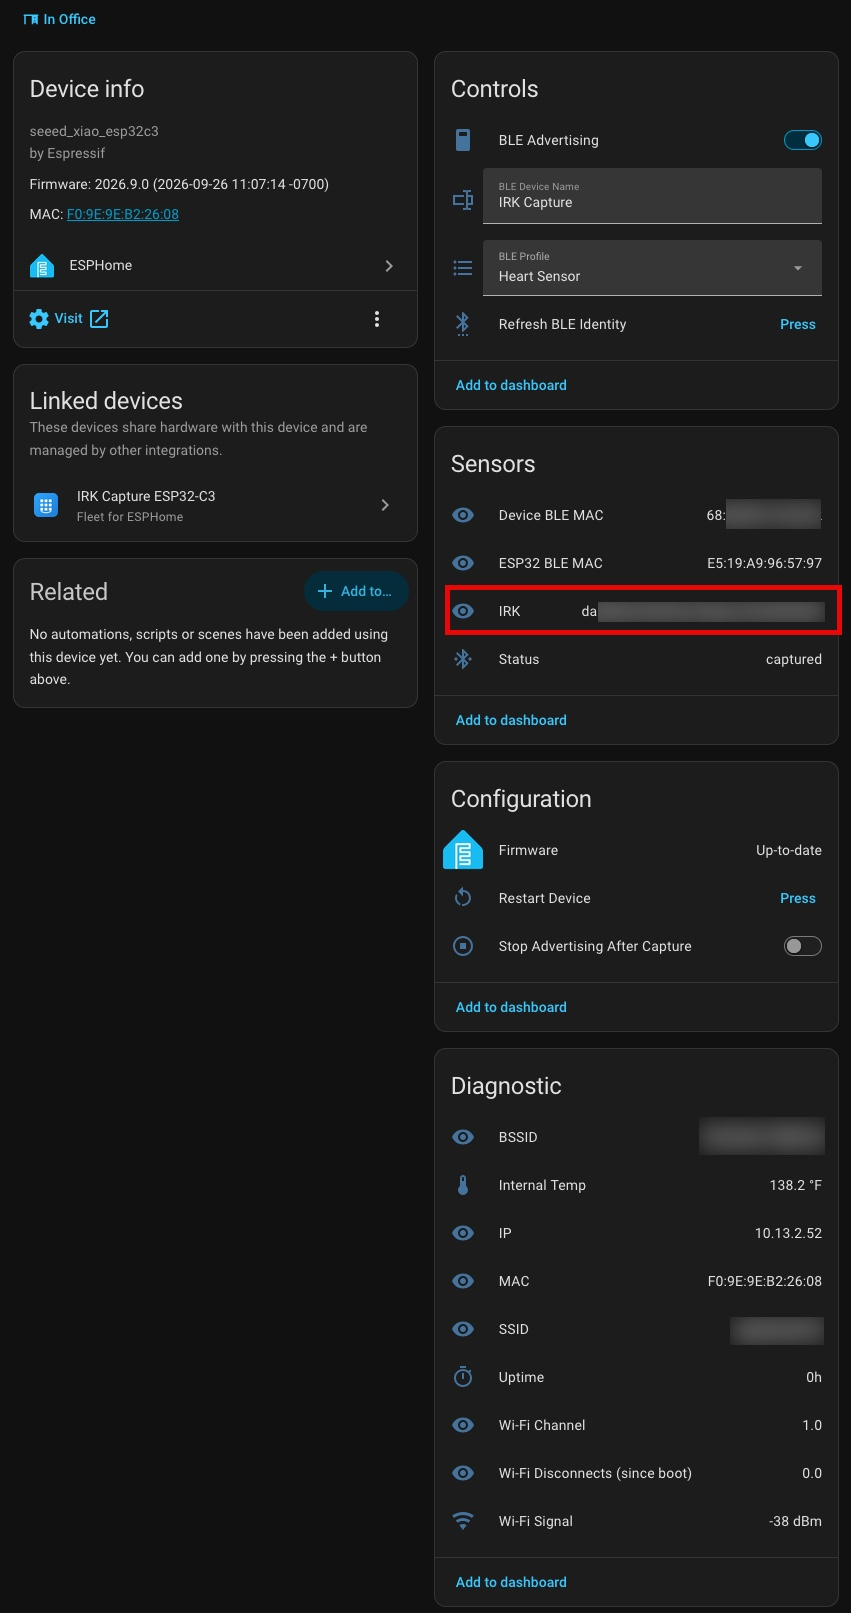
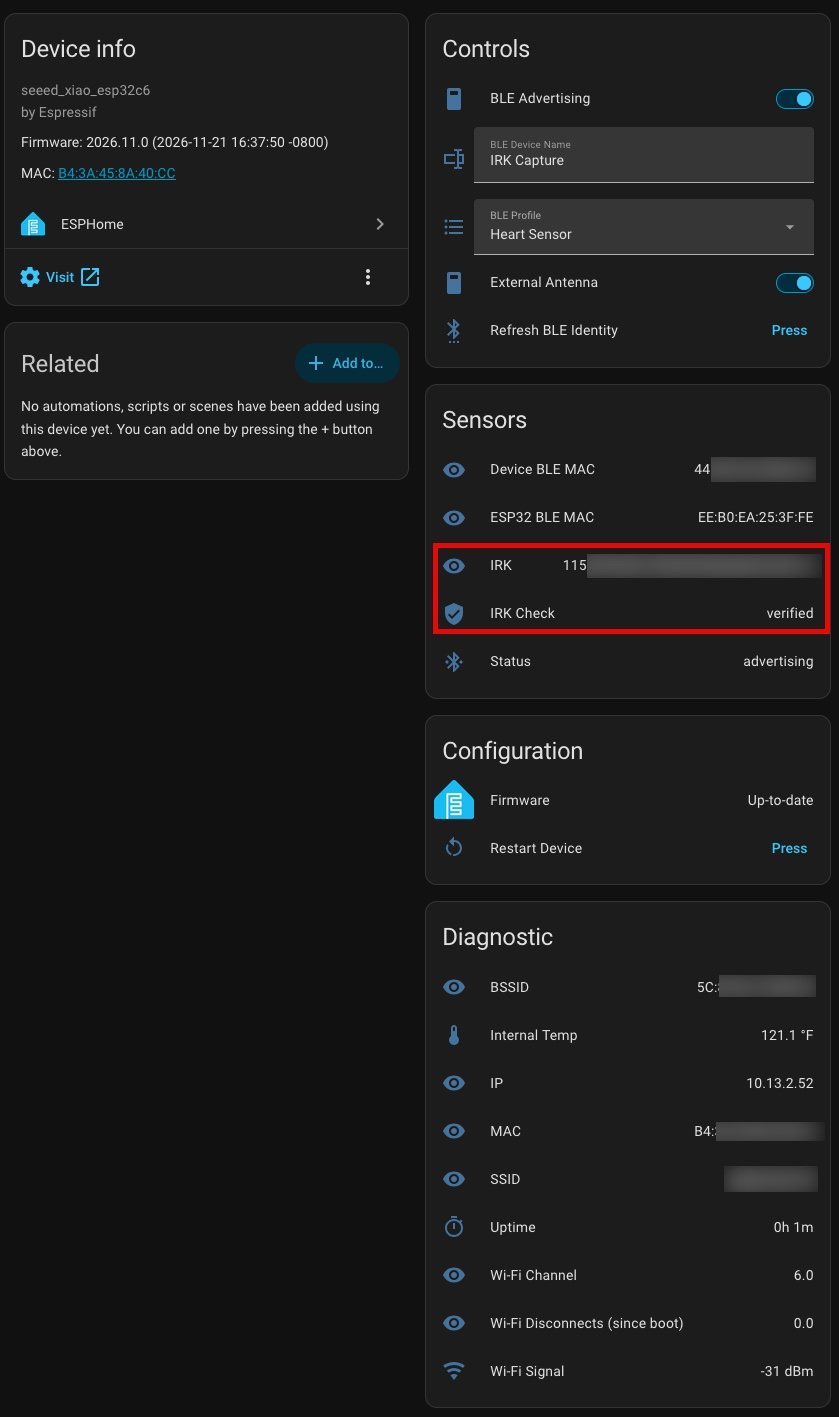
Describe the IRK check in the README and refresh the screenshot
Add the check to the capture steps and the event description, and a
short note on what verified, unverified and mismatch mean. The device
page screenshot now shows the IRK Check sensor.

diff --git a/README.md b/README.md
@@ -6,7 +6,7 @@ This ESPHome package will capture Apple and Android Bluetooth Identity Resolving
 
 You can capture IRKs through two interfaces: the ESP32's ESPHome device page in Home Assistant, or an optional standalone web wizard served by the ESP32. The wizard guides you through the capture process in your browser without needing Home Assistant. See [Optional: The Capture Wizard Package](#optional-the-capture-wizard-package) later in this README for setup instructions.
 
-Each capture also fires an `esphome.irk_captured` event in Home Assistant with the IRK and the device's BLE MAC. You can use it to trigger automations, such as a notification, or to publish new IRKs to MQTT for other systems. See [Optional: Home Assistant Events and MQTT Publishing](#optional-home-assistant-events-and-mqtt-publishing).
+Each capture also fires an `esphome.irk_captured` event in Home Assistant with the IRK, the device's BLE MAC, and the result of the IRK check. You can use it to trigger automations, such as a notification, or to publish new IRKs to MQTT for other systems. See [Optional: Home Assistant Events and MQTT Publishing](#optional-home-assistant-events-and-mqtt-publishing).
 
 This ESPHome IRK capture package is only designed to capture IRKs and can NOT pull double duty as a Bluetooth proxy. You can either flash this to a spare ESP32 device and keep it in a sock drawer when not being used, or temporarily flash this package to an ESP32 then flash back to your generic Bluetooth proxy ESPHome configuration. IRKs are generally permanent and do not change over time.
 
@@ -61,9 +61,12 @@ When your Apple or Android device pairs with the ESP32:
 2. Your device initiates a secure pairing process
 3. During pairing, the device shares its IRK with the ESP32
 4. The IRK is captured and exposed as a Home Assistant text sensor
-5. You can then use this IRK with the Private BLE Device integration for presence tracking
+5. The ESP32 checks the IRK and reports the result in the **IRK Check** sensor
+6. You can then use this IRK with the Private BLE Device integration for presence tracking
 
-![ESPHome IRK Capture Device](docs/screenshot-1.jpg)
+**IRK check.** Phones and watches that use BLE privacy connect from a private address generated from their IRK. After each capture, the ESP32 confirms that the captured IRK generates the address the device connected from. **IRK Check** shows `verified` when it does, which proves the key is correct. `unverified` means the device connected from a fixed address, so there was nothing to check; the key is usually still correct. `mismatch` means you should capture the device again. See [Checking a captured IRK](#checking-a-captured-irk) for details.
+
+![ESPHome IRK Capture device page in Home Assistant, with the IRK and IRK Check sensors highlighted](docs/screenshot-1.jpg)
 
 ## Requirements
 
